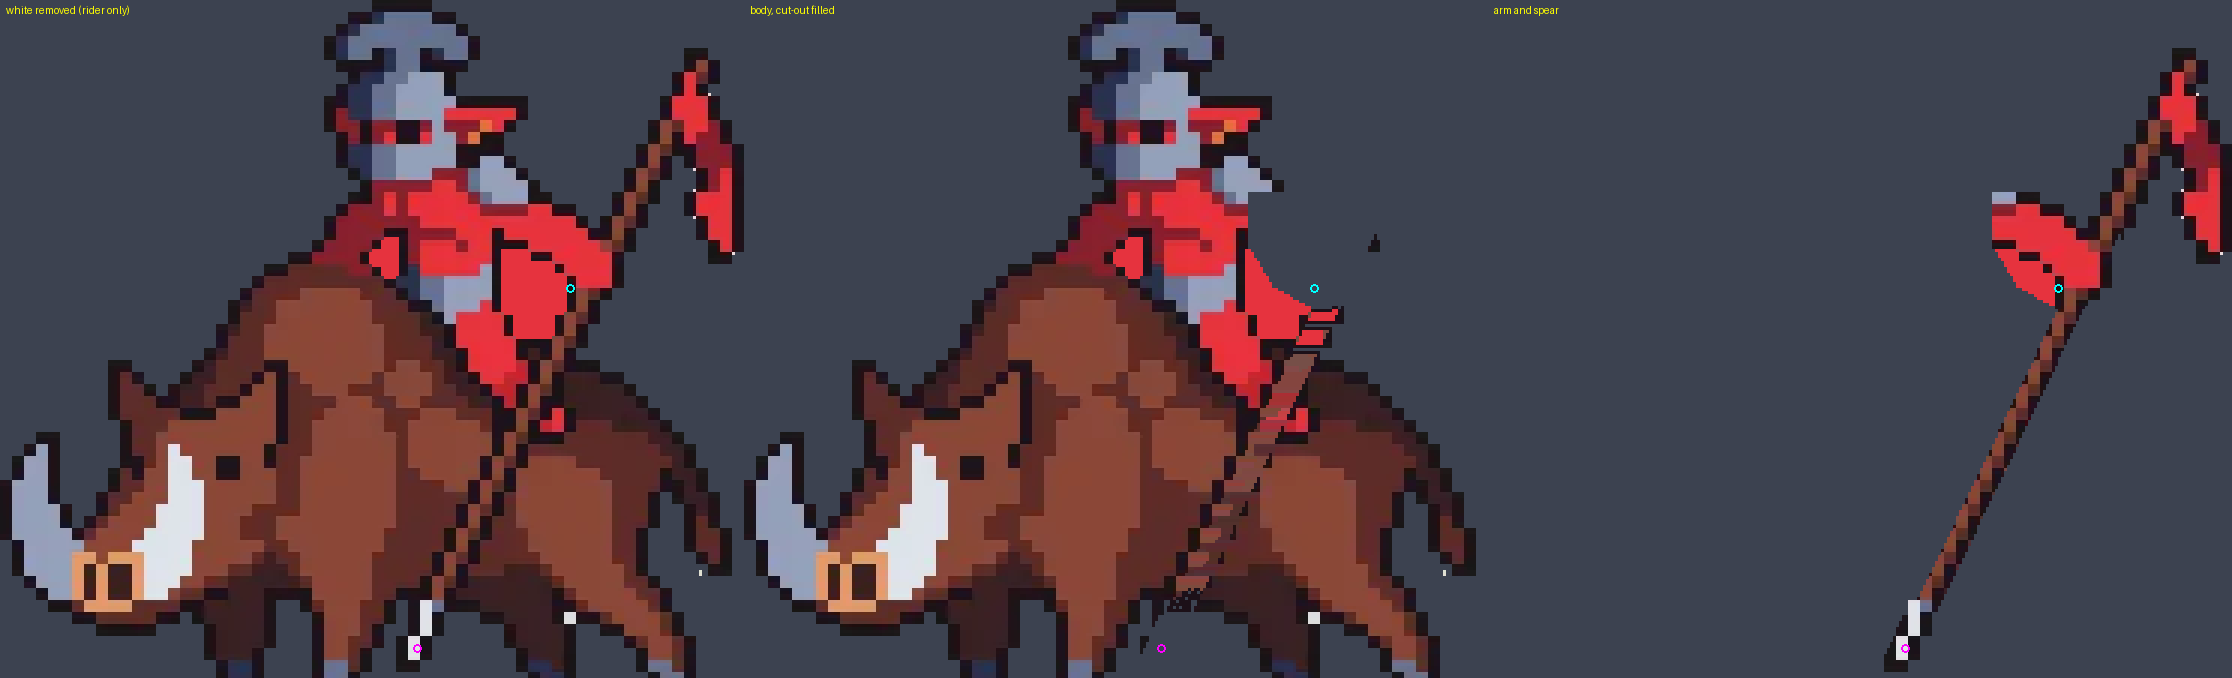
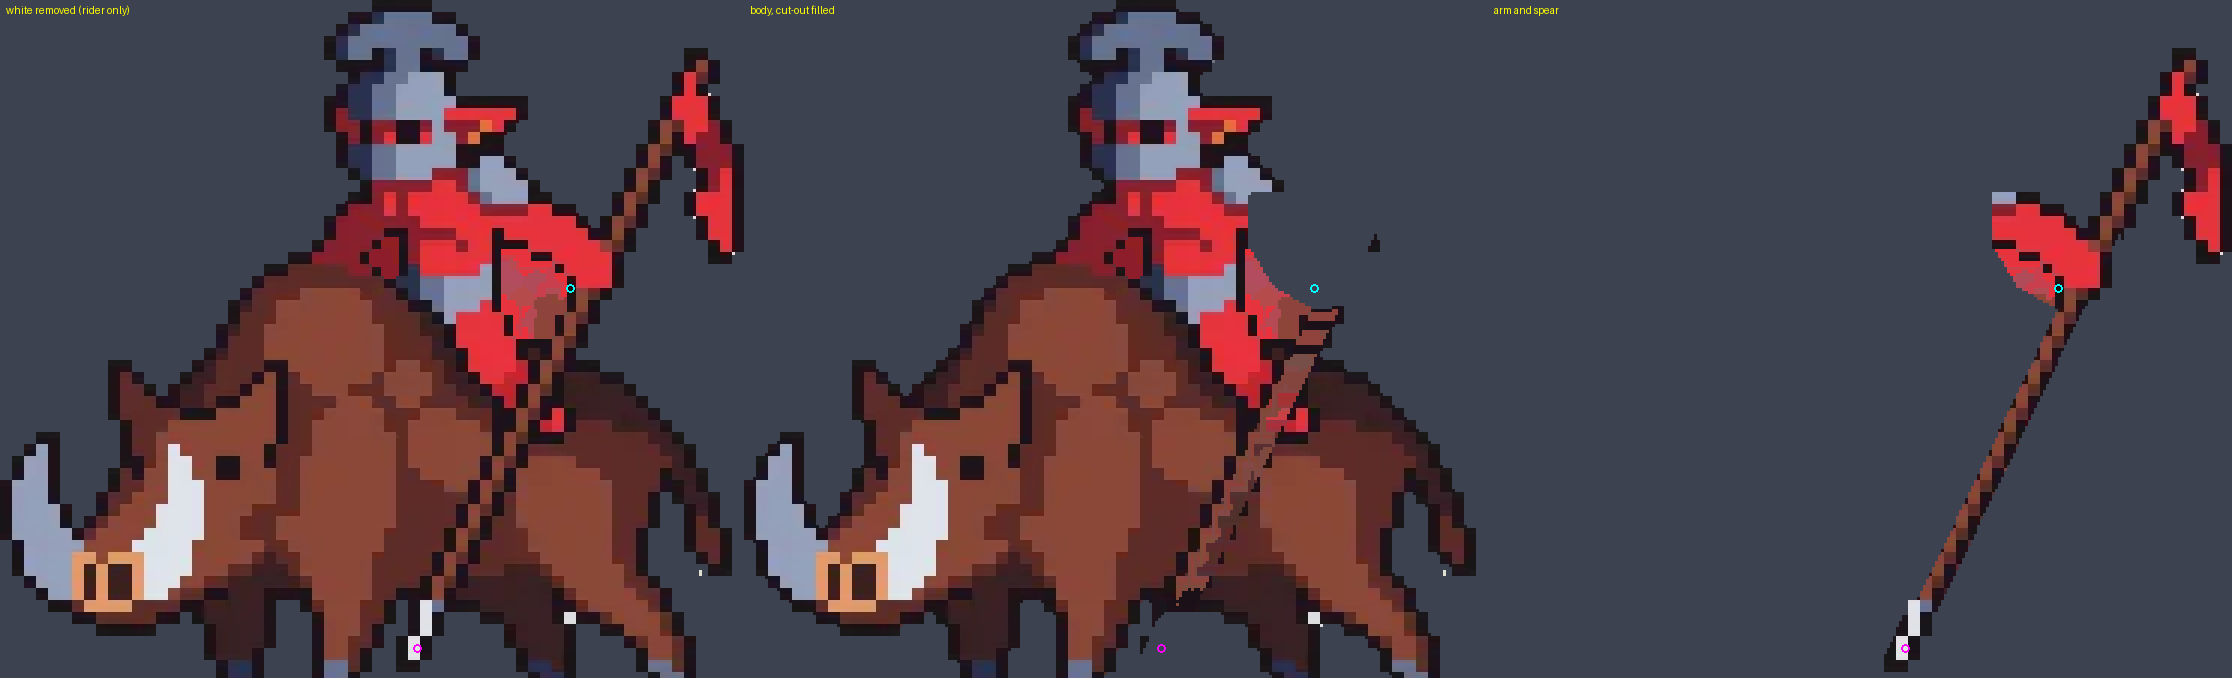
Boar Lord: fill the cape and fur, close rotation pinholes (st105)

diff --git a/web/index.html b/web/index.html
@@ -173,43 +173,43 @@
     <pre id="monitor"></pre>
   </section>
 </main>
-<script>window.BIBOO_VER = 'st104';   /* cache buster: change it whenever the game or its assets change */</script>
-<script src="assets/data.js?v=st104"></script>
-<script src="assets/moves_extra.js?v=st104"></script>
-<script src="assets/creatures.js?v=st104"></script>
-<script src="assets/arenas.js?v=st104"></script>
-<script src="assets/bgs.js?v=st104"></script>
-<script src="assets/training.js?v=st104"></script>
-<script src="assets/items.js?v=st104"></script>
-<script src="assets/story.js?v=st104"></script>
-<script src="assets/music.js?v=st104"></script>
-<script src="music.js?v=st104"></script>
-<script src="input.js?v=st104"></script>
-<script src="progress.js?v=st104"></script>
-<script src="ui.js?v=st104"></script>
-<script src="levels.js?v=st104"></script>
-<script src="game/00_core.js?v=st104"></script>
-<script src="game/01_assets.js?v=st104"></script>
-<script src="game/02_input.js?v=st104"></script>
-<script src="game/03_state.js?v=st104"></script>
-<script src="game/04_chain.js?v=st104"></script>
-<script src="game/05_health.js?v=st104"></script>
-<script src="game/06_training.js?v=st104"></script>
-<script src="game/07_feedback.js?v=st104"></script>
-<script src="game/08_beams.js?v=st104"></script>
-<script src="game/09_maps.js?v=st104"></script>
-<script src="game/10_hazards.js?v=st104"></script>
-<script src="game/11_enemies.js?v=st104"></script>
-<script src="game/12_hits.js?v=st104"></script>
-<script src="game/13_enemy_attacks.js?v=st104"></script>
-<script src="game/14_draw_player.js?v=st104"></script>
-<script src="game/15_draw_scenery.js?v=st104"></script>
-<script src="game/16_hud.js?v=st104"></script>
-<script src="game/17_menus.js?v=st104"></script>
-<script src="game/18_story.js?v=st104"></script>
-<script src="game/19_overworld.js?v=st104"></script>
-<script src="game/20_title.js?v=st104"></script>
-<script src="game/21_cheats_loop.js?v=st104"></script>
-<script src="game/22_test_hooks.js?v=st104"></script>
+<script>window.BIBOO_VER = 'st105';   /* cache buster: change it whenever the game or its assets change */</script>
+<script src="assets/data.js?v=st105"></script>
+<script src="assets/moves_extra.js?v=st105"></script>
+<script src="assets/creatures.js?v=st105"></script>
+<script src="assets/arenas.js?v=st105"></script>
+<script src="assets/bgs.js?v=st105"></script>
+<script src="assets/training.js?v=st105"></script>
+<script src="assets/items.js?v=st105"></script>
+<script src="assets/story.js?v=st105"></script>
+<script src="assets/music.js?v=st105"></script>
+<script src="music.js?v=st105"></script>
+<script src="input.js?v=st105"></script>
+<script src="progress.js?v=st105"></script>
+<script src="ui.js?v=st105"></script>
+<script src="levels.js?v=st105"></script>
+<script src="game/00_core.js?v=st105"></script>
+<script src="game/01_assets.js?v=st105"></script>
+<script src="game/02_input.js?v=st105"></script>
+<script src="game/03_state.js?v=st105"></script>
+<script src="game/04_chain.js?v=st105"></script>
+<script src="game/05_health.js?v=st105"></script>
+<script src="game/06_training.js?v=st105"></script>
+<script src="game/07_feedback.js?v=st105"></script>
+<script src="game/08_beams.js?v=st105"></script>
+<script src="game/09_maps.js?v=st105"></script>
+<script src="game/10_hazards.js?v=st105"></script>
+<script src="game/11_enemies.js?v=st105"></script>
+<script src="game/12_hits.js?v=st105"></script>
+<script src="game/13_enemy_attacks.js?v=st105"></script>
+<script src="game/14_draw_player.js?v=st105"></script>
+<script src="game/15_draw_scenery.js?v=st105"></script>
+<script src="game/16_hud.js?v=st105"></script>
+<script src="game/17_menus.js?v=st105"></script>
+<script src="game/18_story.js?v=st105"></script>
+<script src="game/19_overworld.js?v=st105"></script>
+<script src="game/20_title.js?v=st105"></script>
+<script src="game/21_cheats_loop.js?v=st105"></script>
+<script src="game/22_test_hooks.js?v=st105"></script>
 </body>
 </html>

diff --git a/tools/creatures/boar_rig.py b/tools/creatures/boar_rig.py
@@ -81,12 +81,51 @@ def fill_mode(img, todo, radius=4, reject=None):
     return img
 
 
+def is_cape(p):
+    return p[3] > 0 and p[0] > 140 and p[0] > p[1] + 30 and p[1] < 140 and p[2] < 150
+
+
+def close_gaps(im):
+    """Fill pinholes from the cut and from nearest-neighbour rotation.
+
+    A clear pixel is filled only when opaque pixels sit on both axes around it, so a
+    gap in the spear shaft closes and an outside corner of the silhouette does not."""
+    from collections import Counter
+    px = im.load(); w, h = im.size
+    for _ in range(4):
+        fix = []
+        for y in range(1, h - 1):
+            for x in range(1, w - 1):
+                if px[x, y][3]: continue
+                offs = []; cols = []; card = 0
+                for dy in (-1, 0, 1):
+                    for dx in (-1, 0, 1):
+                        if not dx and not dy: continue
+                        p = px[x + dx, y + dy]
+                        if p[3] > 200:
+                            offs.append((dx, dy)); cols.append(p)
+                            if dx == 0 or dy == 0: card += 1
+                if not offs: continue
+                xs = [d[0] for d in offs]; ys = [d[1] for d in offs]
+                spanned = min(xs) < 0 < max(xs) and min(ys) < 0 < max(ys)
+                if card >= 3 or (len(offs) >= 5 and spanned):
+                    fix.append((x, y, Counter(cols).most_common(1)[0][0]))
+        if not fix: break
+        for x, y, c in fix: px[x, y] = c
+    return im
+
+
 def remove_white(im):
-    """White left from the background cut, on the rider only: tiny specks beside the edge go clear, enclosed blobs (and the dark ring around them) are filled from their surroundings."""
+    """White left from the background cut, on the rider only.
+
+    Enclosed blobs, and the dark ring that fenced them, are filled from the cape
+    pixels around them (its own reds, not one flat stamp, and never the boar's brown).
+    A speck sitting on the outline is filled from whatever pixel it actually touches,
+    so the silhouette is not notched."""
     im = im.copy(); px = im.load(); w, h = im.size
     x0, y0, x1, y1 = RIDER
     cand = {(x, y) for y in range(y0, y1) for x in range(x0, x1) if is_white(px[x, y])}
-    seen = set(); fill = set(); clear = set()
+    seen = set(); fill = set(); specks = set()
     for s in cand:
         if s in seen: continue
         comp = []; q = deque([s]); seen.add(s)
@@ -97,7 +136,7 @@ def remove_white(im):
                     n = (c[0] + dx, c[1] + dy)
                     if n in cand and n not in seen: seen.add(n); q.append(n)
         edge = any(not (0 <= x + dx < w and 0 <= y + dy < h) or px[x + dx, y + dy][3] == 0 for x, y in comp for dx, dy in ((1, 0), (-1, 0), (0, 1), (0, -1)))
-        if edge and len(comp) <= 6: clear.update(comp)               # a speck on the outline: just remove it
+        if edge and len(comp) <= 6: specks.update(comp)
         else:
             fill.update(comp)
             for (x, y) in comp:                                     # the dark outline ring that fenced the blob in goes too
@@ -105,10 +144,16 @@ def remove_white(im):
                     for dy in (-1, 0, 1):
                         n = (x + dx, y + dy)
                         if n not in cand and 0 <= n[0] < w and 0 <= n[1] < h and is_dark(px[n]): fill.add(n)
-    for k in clear: px[k] = (0, 0, 0, 0)
     from collections import Counter
-    cape = Counter(px[x, y][:3] for y in range(y0, y1) for x in range(x0, x1) if px[x, y][3] and px[x, y][0] > 200 and px[x, y][1] < 100 and px[x, y][2] < 110).most_common(1)[0][0]
-    for k in fill: px[k] = cape + (255,)      # what the white hid was the red cape: fill it with that red (never with the boar's brown)
+    cape = Counter(px[x, y][:3] for y in range(y0, y1) for x in range(x0, x1) if is_cape(px[x, y])).most_common(1)[0][0]
+    inpaint(im, specks, avoid_dark=True)
+    for k in fill: px[k] = (0, 0, 0, 0)
+    fill_mode(im, fill, 6, lambda p: not is_cape(p))
+    px = im.load()
+    for (x, y) in fill:
+        if px[x, y][3] == 0: px[x, y] = cape + (255,)
+        elif any(0 <= x + dx < w and 0 <= y + dy < h and px[x + dx, y + dy][3] == 0 for dx, dy in ((1, 0), (-1, 0), (0, 1), (0, -1))):
+            px[x, y] = (28, 16, 24, 255)
     return im
 
 
@@ -154,8 +199,21 @@ def split(im):
         if ok: fill.add((x, y))
     pole = {p for p in fill if seg_dist(p, POLE_A, POLE_B) <= POLE_R and not inside(ARM, *p) and not inside(PENNANT, *p)}
     low = {p for p in pole if p[1] >= 128}; high = pole - low
-    fur = lambda p: not (p[0] > p[1] >= p[2] and p[0] < 200) or is_white(p)       # below the rider only the boar's own browns count
-    for (x, y) in low:                       # the pole crosses the fur at a slant: each row takes the fur beside it, from whichever side is nearer, so no band is left
+    def fur_at(x, y):
+        if (x, y) in fill or (x, y) in cut or not (0 <= x < w and 0 <= y < h): return None
+        p = bp[x, y]
+        if p[3] == 0 or is_dark(p) or is_white(p): return None
+        if not (p[0] > p[1] >= p[2]): return None          # the boar's brown, not the cape and not the armour
+        return p
+    for (x, y) in low:
+        # continue the fur from above or below. Copying the pixel beside the gap
+        # stamped one colour across the whole row and left a flat band.
+        pick = None
+        for d in range(1, 8):
+            for p in (fur_at(x, y - d), fur_at(x, y + d)):
+                if p is not None and (pick is None or d < pick[0]): pick = (d, p)
+            if pick and pick[0] < d: break
+        if pick: bp[x, y] = pick[1]; continue
         l = x
         while l >= 0 and ((l, y) in fill or (l, y) in cut or is_dark(bp[l, y]) or bp[l, y][3] == 0) and x - l < 14: l -= 1
         r = x
@@ -168,6 +226,7 @@ def split(im):
     # a new edge made by the cut gets the same dark outline the art has everywhere else
     for (x, y) in fill:
         if any(0 <= x + dx < w and 0 <= y + dy < h and bp[x + dx, y + dy][3] == 0 for dx, dy in ((1, 0), (-1, 0), (0, 1), (0, -1))): bp[x, y] = (28, 16, 24, 255)
+    close_gaps(body)
     return body, arm
 
 

diff --git a/tools/creatures/build.py b/tools/creatures/build.py
@@ -145,12 +145,15 @@ def build(name, c):
             T.alpha_composite(body_n, (PADN, PADN))
             A = Image.new('RGBA', T.size, (0, 0, 0, 0)); A.alpha_composite(arm_n, (PADN, PADN))
             A = A.rotate(th, resample=Image.NEAREST, center=(PADN + px0, PADN + py0))
-            A = ImageChops.offset(A, round(tx), round(ty)); T.alpha_composite(A)
+            A = ImageChops.offset(A, round(tx), round(ty))
+            boar_rig.close_gaps(A)                                         # nearest rotation opens pinholes along the shaft and the sleeve
+            T.alpha_composite(A)
             # the spear tip, found by turning and sliding a marker the same way
             t = math.radians(th); ddx, ddy = boar_rig.TIP[0] - px0, boar_rig.TIP[1] - py0
             tipx = px0 + ddx * math.cos(t) + ddy * math.sin(t) + tx; tipy = py0 - ddx * math.sin(t) + ddy * math.cos(t) + ty
             args = (w, h, pf, pb, pt, pbot, cw, ch, cx, by, dx, dy, sx, sy, rot)
             fr = render(scaled(T), *args, pad=PADN * k)
+            boar_rig.close_gaps(fr)                                        # the lean is another nearest rotation; close what it opens
             bb = render(S_body, *args).getchannel('A').getbbox()        # the body only, so the swinging arm does not stretch its hitbox
             L, T0, R, B = bb
             hurtb = [round((L + (R - L) * 0.12) - cx), 0, round((R - (R - L) * 0.12) - cx), max(2, round(by - T0))]

diff --git a/Current_Work.md b/Current_Work.md
@@ -13,7 +13,7 @@ Read the rules first, claim a step before starting it, and sign off when it is d
 See repository history for full rules. Work on main, claim steps.
 
 **Do not run tests or verification unless the user asks for it.** It is too time consuming. Make the change, note it here, push. (This replaces the old "run checks before push" rule.)
-**Cache stamp:** after any change to the game or its assets, bump `window.BIBOO_VER` and every `?v=` in `web/index.html` (now st104): `sed -i "s/BIBOO_VER = 'stN'/BIBOO_VER = 'stN+1'/; s/v=stN/v=stN+1/g" web/index.html`.
+**Cache stamp:** after any change to the game or its assets, bump `window.BIBOO_VER` and every `?v=` in `web/index.html` (now st105): `sed -i "s/BIBOO_VER = 'stN'/BIBOO_VER = 'stN+1'/; s/v=stN/v=stN+1/g" web/index.html`.
 
 **Git rules (project owner):** work only on main, never create branches, `git pull --rebase` then push to main after every successful step, and end commit messages with the Co-Authored-By and Claude-Session lines.
 
@@ -72,3 +72,4 @@ See repository history for full rules. Work on main, claim steps.
 - st103: parry window 200 ms (HIT_DELAY for melee, PARRY_LATE for shots). Every foe projectile (not only the homing combo shards) now stops on contact with her for that window before it hurts, is blocked or is reflected. Enemy melee still holds its striking frame from contact until the hit lands.
 - st104: rim light removed. The offset cream copy read as a white outline on Perry's hair and sword. Shadows, grades and wet reflections stay.
 - st104: Boar Lord spear attack. It never fired before because its damage box sat 60 px up in the air (Perry's body box is 0 to 44 px), so the AI never picked it. New art pipeline `tools/creatures/boar_rig.py` (run by `build.py`): removes the white left from the background cut on the rider only (red and gray; the boar's tusks and the white spear point are untouched), then splits the arm and spear from the body and fills the cut-out behind it (body fur and cape, clear where nothing was behind). `build.py` draws the `spear` animation from those layers: 11 frames, the arm and spear turn about the grip (`PIVOT`), wind back, then thrust forward in 30 ms steps while the boar lunges. Each striking frame carries a small damage box (28 sheet px) centred on the white spear point, so the box travels with the tip; those frames are marked `"rig": true` and `tighten_hits.py` skips them. Rebuild only this boss with `python3 tools/creatures/build.py boarlord` (it keeps the rest of creatures.js), then `python3 -c "import sys; sys.path.insert(0,'tools/creatures'); import tighten_hits as t, os; t.run(os.path.join(t.WEB,'assets','creatures.js'),'{\"hobgoblin\"','}',keys={'boarlord'})"`. Tunables: `SPEAR` and `TIP_HALF` in build.py, `PIVOT`, `POLE_A`, `POLE_B`, `ARM`, `PENNANT` in boar_rig.py. The tip only leads the nose by about 8 game px at full extension, so the spear reaches about as far as the tusks do. Checked in the real fight (boxes on): it selects the spear and the tip box follows the point. Not checked: how it feels to parry, and the other bosses are unchanged.
+- st105: Boar Lord art cleanup, no gameplay change. The rider's white cutout had been stamped with one flat cape red; it is now filled from the cape pixels around it, and edge specks are filled instead of punched out. The fur behind the spear is continued from the rows above and below, instead of one colour repeated across the row. Nearest-neighbour rotation was leaving pinholes in the shaft, the sleeve and the leaned body; `close_gaps` fills those. Spear tip boxes are unchanged. Hurtboxes on the other attacks were regenerated and tightened and match st104.
